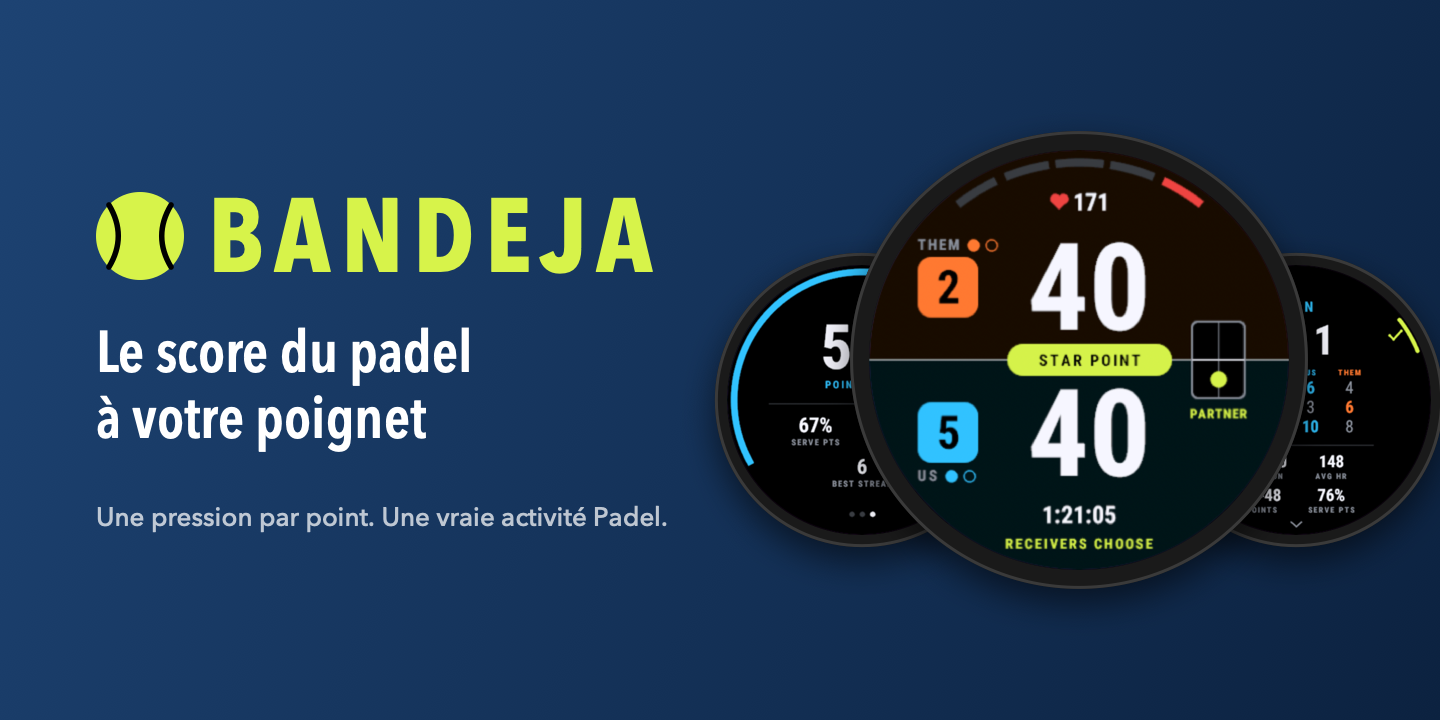
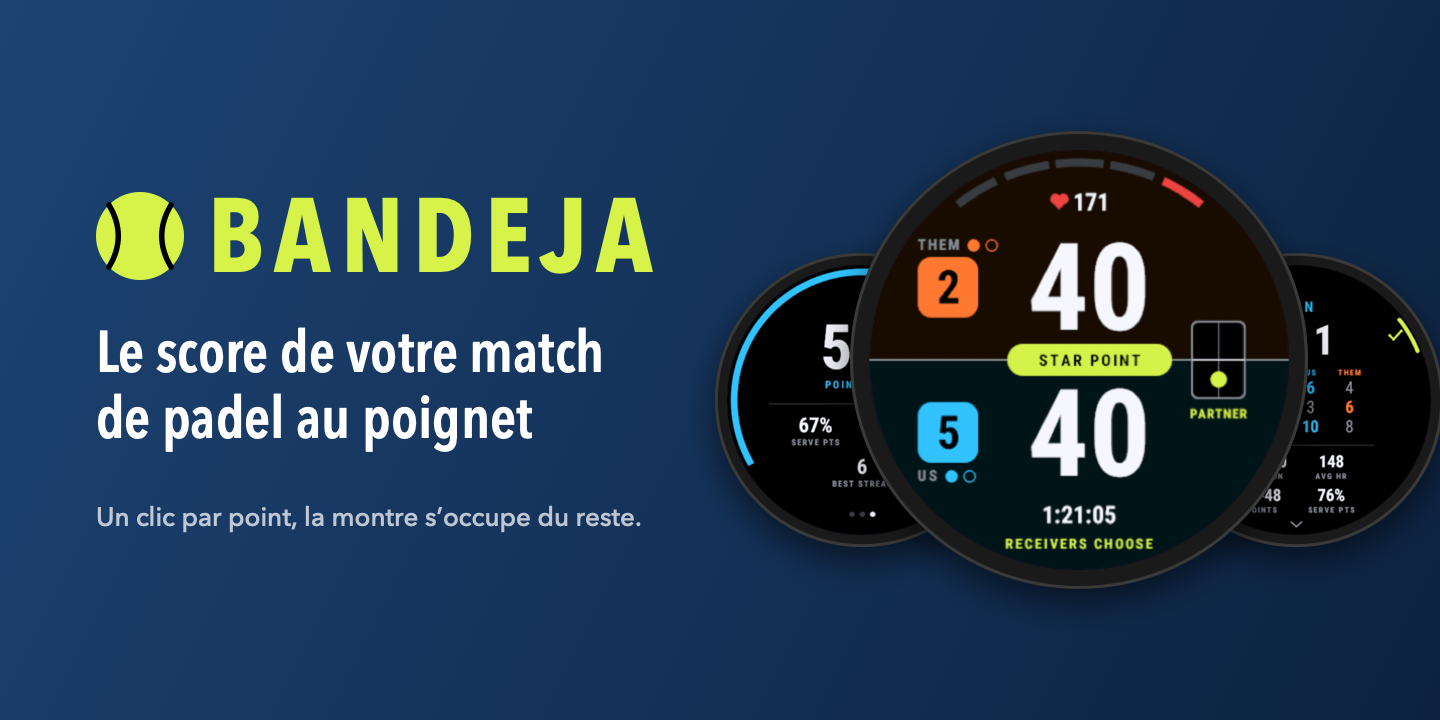
🍱 Update the store hero images and the README wording

Changed region(s): [[0.0625, 0.4583, 0.4375, 0.6417], [0.0938, 0.7028, 0.4688, 0.7333]]

diff --git a/README.md b/README.md
@@ -1,6 +1,6 @@
 # Bandeja
 
-A padel score keeper for the Garmin Forerunner 265 and 265S. One button press per point: the watch handles the rules (deuce modes, tie-breaks, serve rotation, change of ends) and saves the match to Garmin Connect as a real **Padel** activity, with heart rate, calories, training effect, the final score, one lap per game and the match stats.
+A padel score keeper for the Garmin Forerunner 265 and 265S. One button press per point: the watch handles the rules (deuce modes, tie-breaks, serve rotation, change of ends) and saves the match to Garmin Connect as a **Padel** activity, with heart rate, calories, training effect, the final score, one lap per game and the match stats.
 
 <!-- The Connect IQ store link goes here once the store listing is live. -->
 
